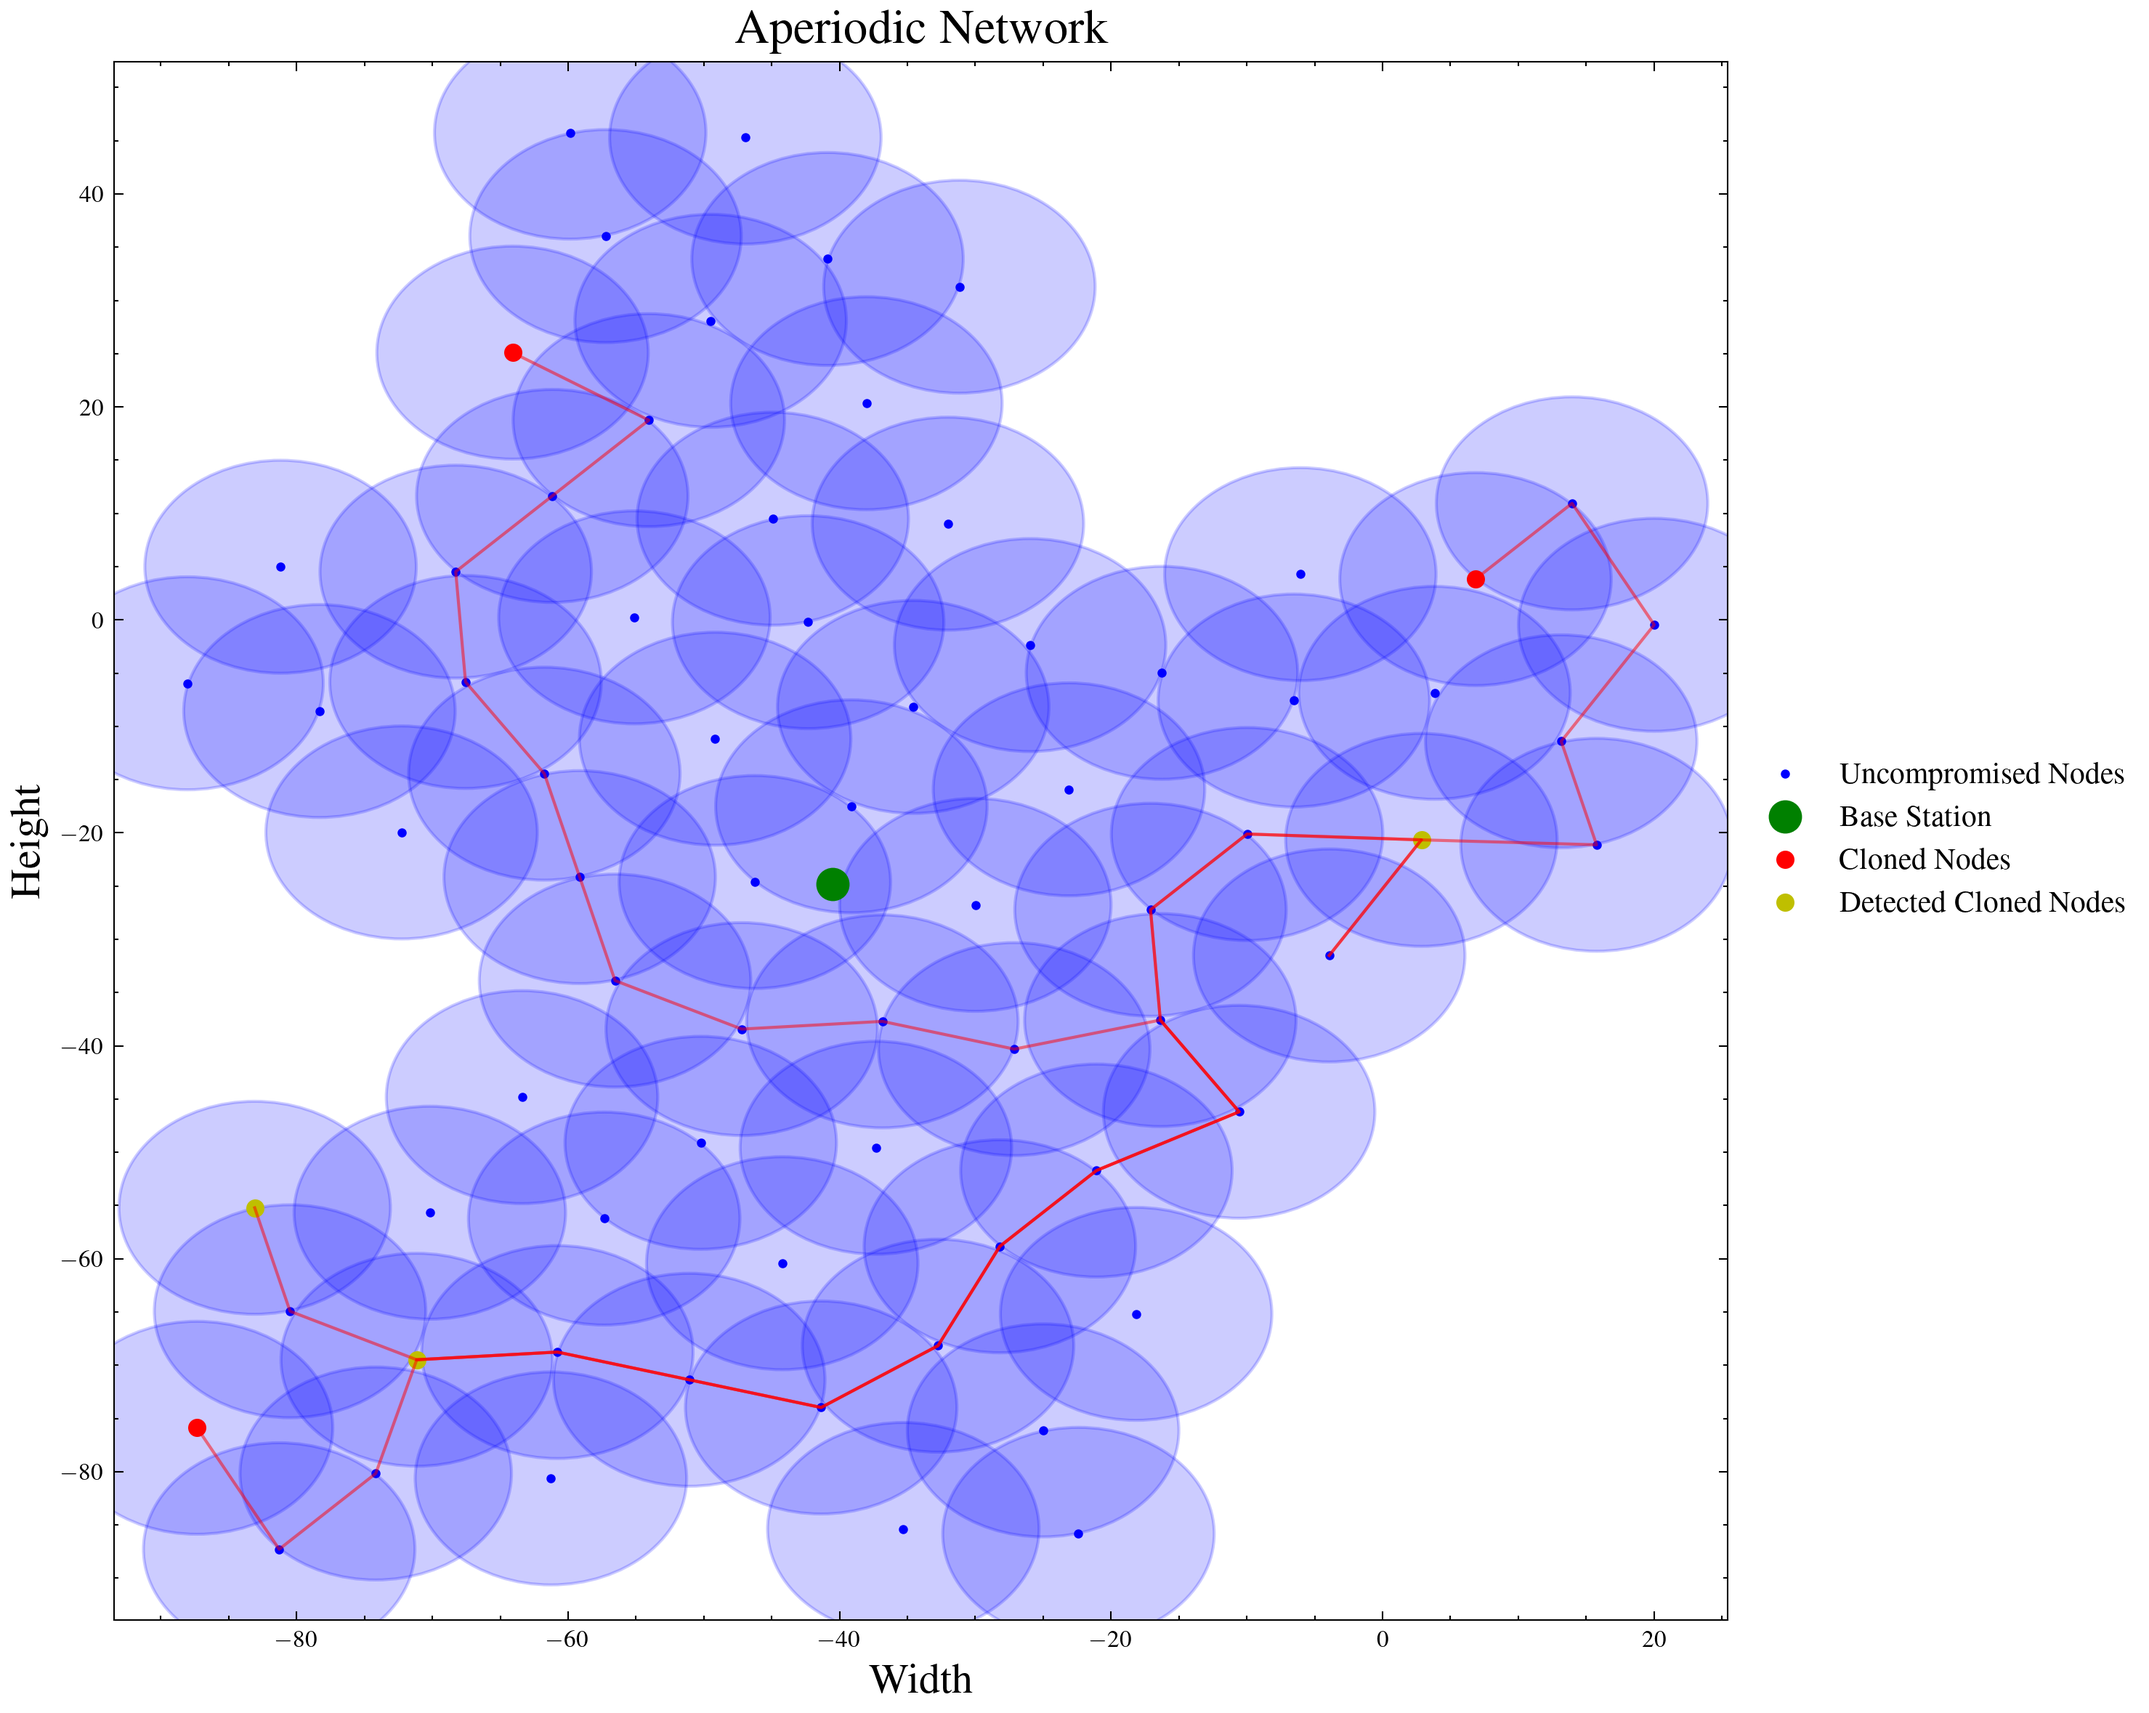
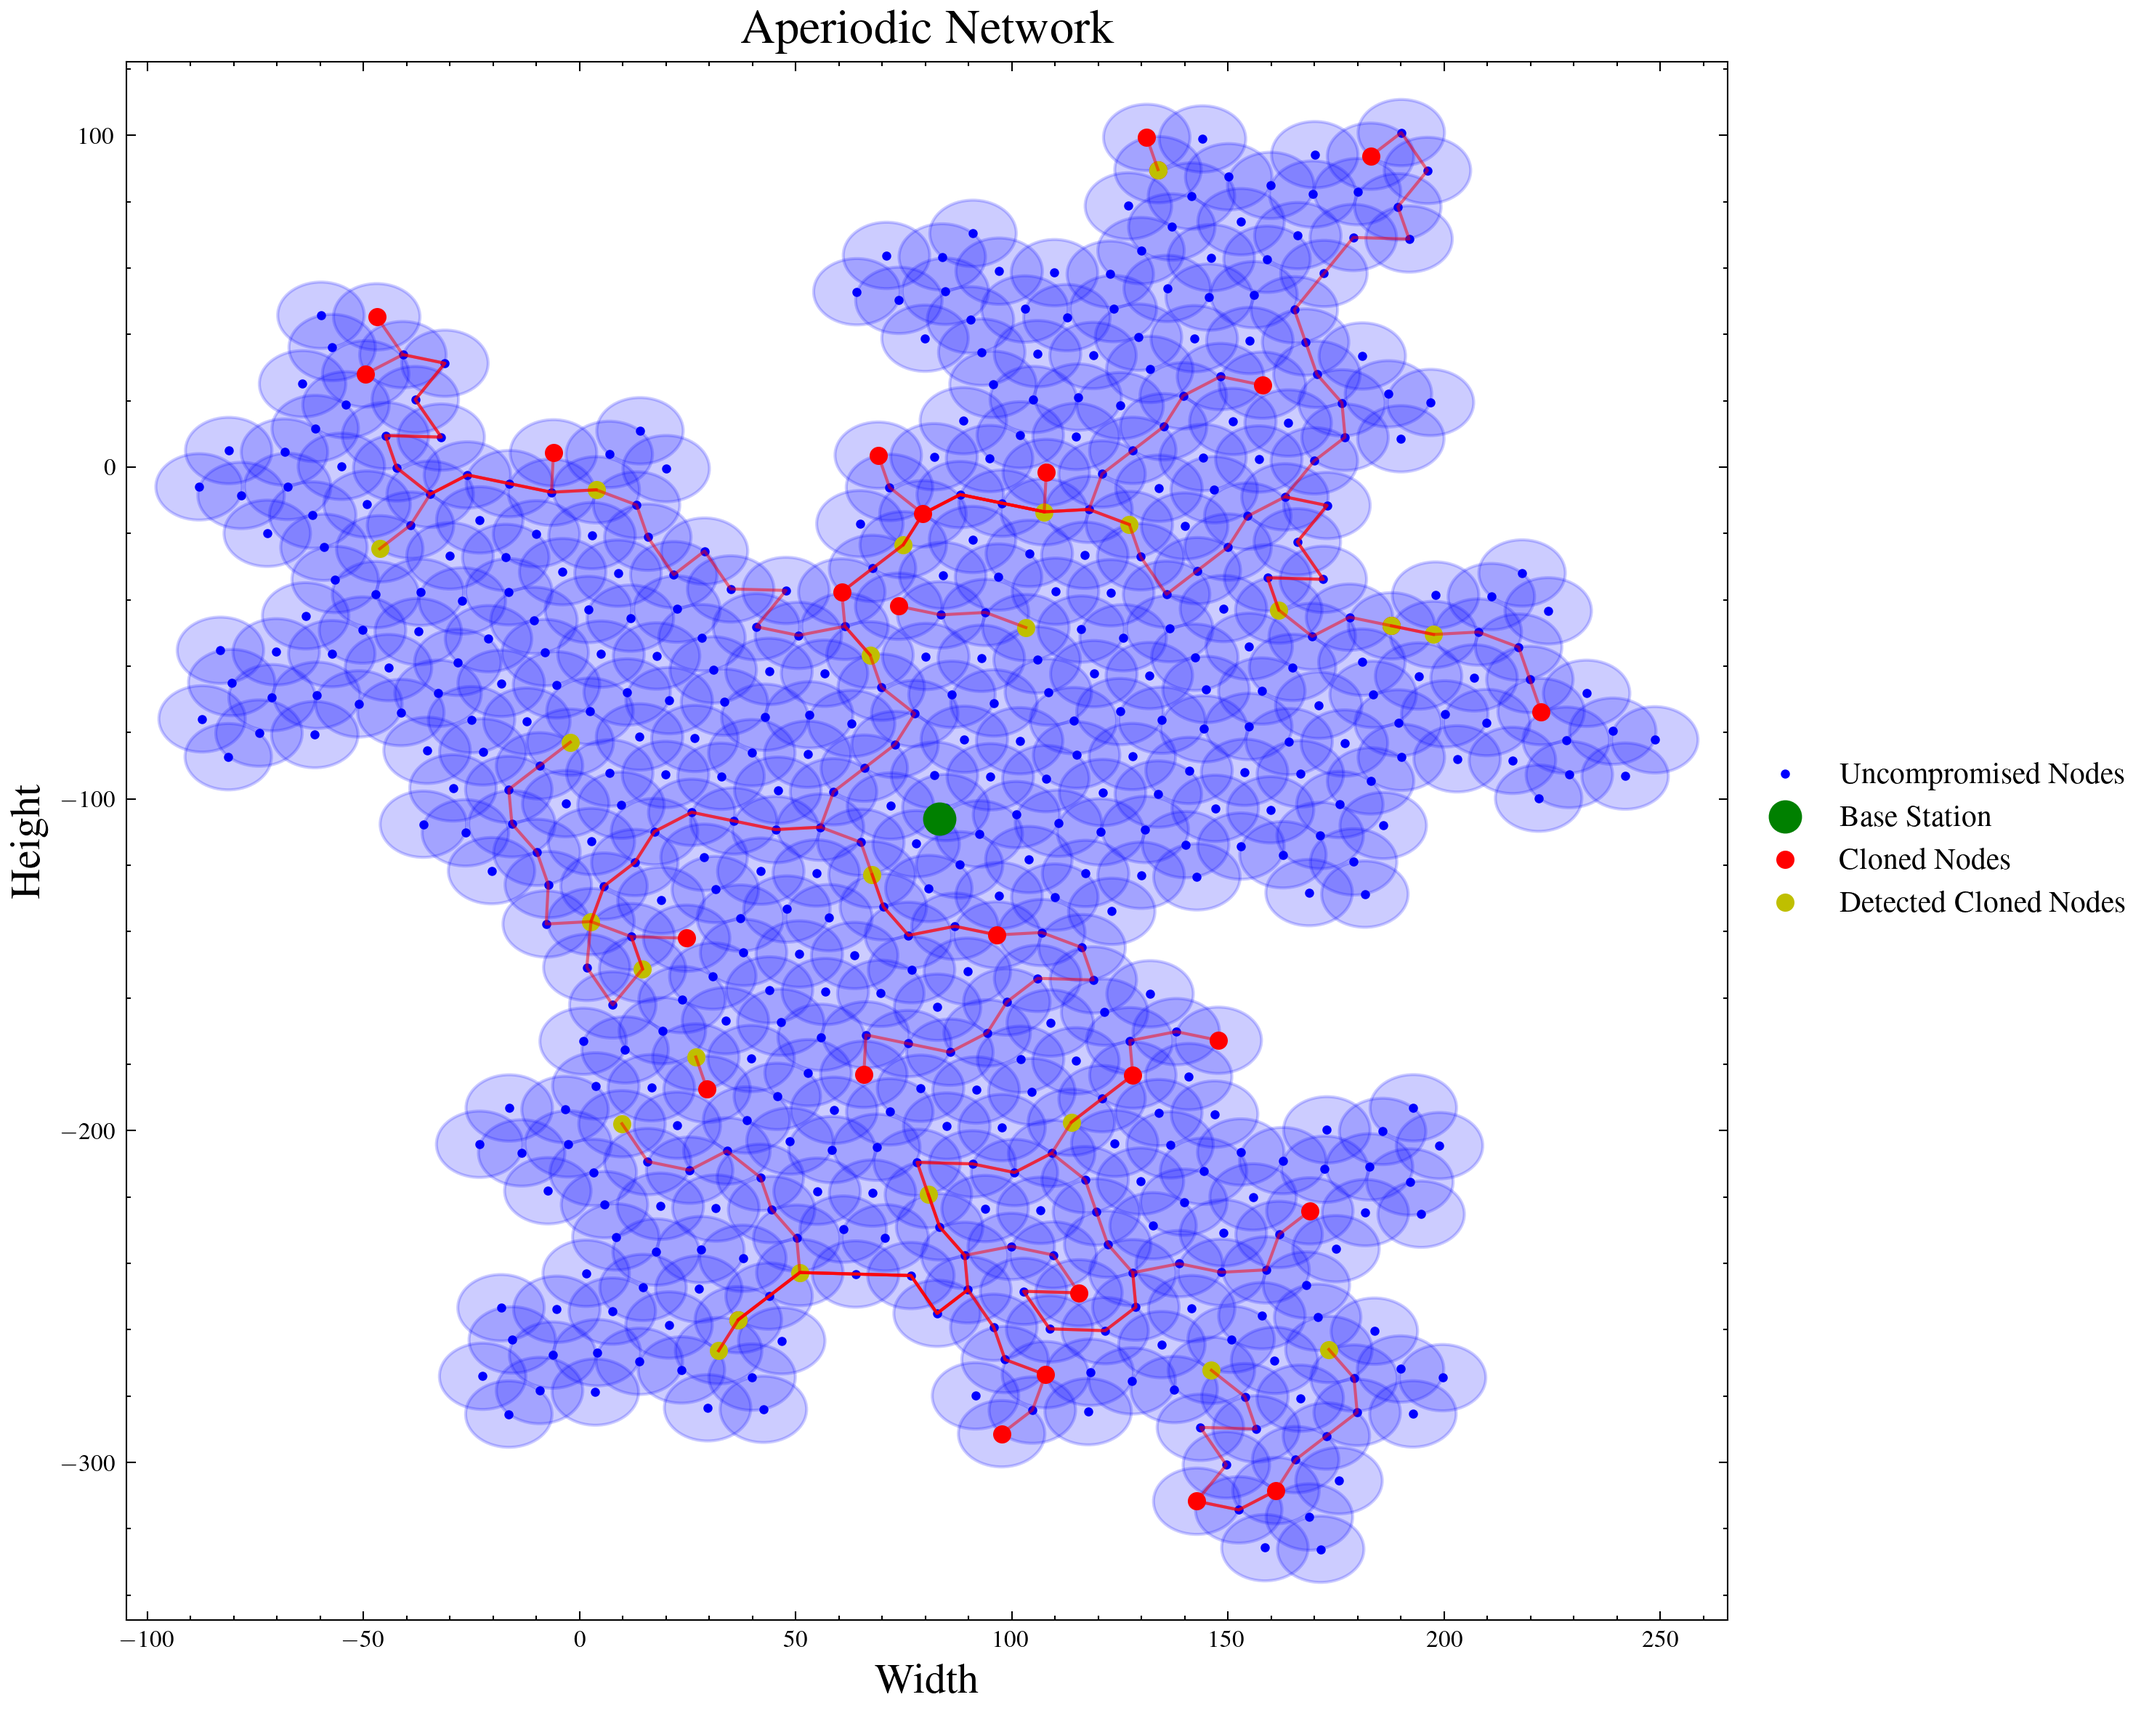
New figures

diff --git a/SECURITY/energy_security_tradeoff.py b/SECURITY/energy_security_tradeoff.py
@@ -160,7 +160,7 @@ def plot_network_with_paths(network, paths, clone_positions, detected_clones, ba
 
     plt.show()
 
-def run_simulation(num_sensors=71, num_iterations=1, num_rounds=1000, save_fig=False):
+def run_simulation(num_sensors=559, num_iterations=1, num_rounds=1000, save_fig=False):
     sensor_radius = SENSOR_RADIUS
     networks = generate_networks(sensor_radius, num_sensors)
     results = {network_type: {'detections': 0, 'paths': [], 'total_intrusion_effort': 0, 'total_hops': 0, 'base_station_reached': 0, 'detected_clones': set(), 'compromised_nodes': 0} for network_type in networks.keys()}
